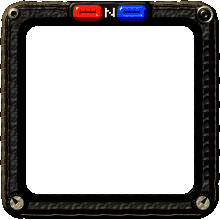
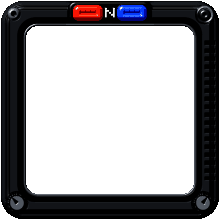
Minimap device frames: clean electronic I and J, K dropped
The grain, wear and rust of the last round read as a weathered object
rather than an electronic device. I and J are now charcoal moulded
plastic and black anodised metal with clean surfaces; the 1999
pre-render look comes from the light alone (shade_hard, crisp bevels,
bright glints on edges and screws, 48 colours). I gets a thin teal
line around the screen, J a gunmetal lip on its CRT well. The status
lamps stay. K is dropped, and the unused grit helpers go with it.

Changed region(s): [[0.0, 0.0, 1.0, 0.9818]]

diff --git a/port/docs/minimap/tools/designs.py b/port/docs/minimap/tools/designs.py
@@ -2,7 +2,7 @@
 # glass overlay, and where the map and markers go, all in native HUD pixels (640x480 HUD space).
 import numpy as np
 from mm_lib import (SS, Canvas, hexrgb, sd_circle, sd_rrect, sd_chamfer, blur, profile_round,
-                    profile_bevel, shade, glyph_mask, GLYPHS, sd_poly, value_noise, grit, shade_hard)
+                    profile_bevel, shade, glyph_mask, GLYPHS, sd_poly, shade_hard)
 
 
 class Design:
@@ -445,10 +445,9 @@ BUILDERS = [respect_ring, pager_handset, steel_plate, compass_dial]
 BUILDERS2 = [tube_frame, police_scanner, dash_gauge, gps_handheld]
 
 
-# Frames for the 3DS bottom screen's 9-slice (port/3ds/minimap.cpp, README's device frames) at its 110x110 slot,
-# pre-rendered like the HUD sprites. Edge details repeat every 4 px; make_frames.py rebuilds edges from one strip.
-# The HUD sprites' own materials: the pager's dark plastic and khaki metal, the respect meters' warm brown rim.
-PLASTIC = hexrgb('#1f2721'); KHAKI = hexrgb('#8e876b'); RIM = hexrgb('#5c4a32')
+# Frames for the 3DS bottom screen's 9-slice (port/3ds/minimap.cpp, README's device frames) at its 110x110 slot:
+# clean moulded plastic and anodised metal. Edge details repeat every 4 px; make_frames.py rebuilds edges from a strip.
+GUNMETAL = hexrgb('#5a5f68'); BLACK_METAL = hexrgb('#16171b')
 
 
 def _nine(d, cap, rib, tab_w, btab_w=0, inset=13):
@@ -462,15 +461,10 @@ def _housing(c, sd, rgb, spec, shin, bevel, height):
             height=profile_round(np.minimum(-sd, bevel), 2 * bevel, height) + np.where(-sd > bevel, height, 0))
 
 
-def _wobble(c, seed, amp=0.35):
-    """A few tenths of a pixel of irregularity to add to a signed distance."""
-    return amp * value_noise(c, 4.0, seed)
-
-
-def _screw(c, x, y, r, rgb, top, kind='slot', seed=0):
-    s = sd_circle(c, x, y, r) + _wobble(c, seed, 0.2)
-    c.paint(s < 0, rgb, spec=1.0, shin=40, height=top + profile_round(-s, r, r * 0.6))
-    dk = hexrgb('#0e0c08')
+def _screw(c, x, y, r, rgb, top, kind='slot'):
+    s = sd_circle(c, x, y, r)
+    c.paint(s < 0, rgb, spec=1.4, shin=60, height=top + profile_round(-s, r, r * 0.6))
+    dk = hexrgb('#060608')
     if kind == 'slot':
         c.paint((np.abs((c.x - x) - (c.y - y)) < 0.6) & (s < -0.5), dk, add=-1.0)
     elif kind == 'cross':
@@ -493,7 +487,7 @@ def _lamp_sprite(d, shape):
 def _lamp(c, shape, top):
     """The status lamp unlit: dark glass with a glint."""
     sd = shape(c)
-    c.paint(sd < 0, hexrgb('#1a1c18'), spec=1.3, shin=50, height=top + profile_round(-sd, 3.0, 1.4))
+    c.paint(sd < 0, hexrgb('#1a1c1e'), spec=1.4, shin=60, height=top + profile_round(-sd, 3.0, 1.4))
 
 
 def _finish(d, c, screen, map_style='colour'):
@@ -508,37 +502,38 @@ def _finish(d, c, screen, map_style='colour'):
 
 
 def tracker_handset():
-    """I: a handheld tracker in the pager's dark plastic: khaki metal screen bezel, grip ridges, a status window with
-    the status lamp and an N, the pager's orange button, a speaker grille below."""
+    """I: a handheld tracker in charcoal moulded plastic: black anodised bezel with a thin glowing line, side vents,
+    a black glass status window with the status lamp and an N, the pager's orange button, a speaker grille below."""
     d = Design(); d.name = 'I_tracker_handset'; d.title = 'I  Tracker handset'
     d.W = d.H = W = H = 110
     _nine(d, cap=18, rib=12, tab_w=40, btab_w=40)
     c = Canvas(W, H)
-    body = sd_rrect(c, 0.5, 0.5, W - 0.5, H - 0.5, 9) + _wobble(c, 11)
-    _housing(c, body, PLASTIC, 0.5, 18, 4.0, 5.0)
-    c.h_[np.abs(body + 2.3) < 0.5] -= 1.0
-    side = ((c.x < 9) | (c.x > W - 9)) & (c.y > 18) & (c.y < H - 18) & (body < -0.8)
-    c.paint(side & (((c.y - 18) % 4) < 1.8), hexrgb('#0c100d'), add=-1.4)
+    body = sd_rrect(c, 0.5, 0.5, W - 0.5, H - 0.5, 9)
+    _housing(c, body, hexrgb('#2e3238'), 0.6, 30, 3.5, 5.0)
+    c.h_[np.abs(body + 2.2) < 0.45] -= 0.9
+    side = ((c.x > 3) & (c.x < 7.5) | (c.x > W - 7.5) & (c.x < W - 3)) & (c.y > 18) & (c.y < H - 18)
+    c.paint(side & (((c.y - 18) % 4) < 1.6), hexrgb('#060708'), add=-1.8)
     win = sd_rrect(c, 38, 2, 72, 11, 2)
-    c.paint(win < 0, hexrgb('#0c0e0c'), spec=0.6, shin=30, height=5.0 - 2.0 * np.clip(-win / 1.0, 0, 1))
+    c.paint(win < 0, hexrgb('#08090b'), spec=1.2, shin=70, height=5.0 - 1.8 * np.clip(-win / 1.0, 0, 1))
     lamp = lambda cc: sd_rrect(cc, 40.5, 3.5, 49.5, 9.5, 2)
-    _lamp(c, lamp, 3.0)
-    c.paint(glyph_mask(c, GLYPHS['N'], 53, 4.5, 1.0), hexrgb('#d8d2a8'), spec=0.0, add=0.0)
+    _lamp(c, lamp, 3.4)
+    c.paint(glyph_mask(c, GLYPHS['N'], 53, 4.5, 1.0), hexrgb('#b4c8b0'), spec=0.0, add=0.0)
     for x in (63.5, 66.5, 69.5):
-        c.paint(sd_circle(c, x, 6.5, 0.9) < 0, hexrgb('#030403'), add=-1.0)
+        c.paint(sd_circle(c, x, 6.5, 0.9) < 0, hexrgb('#020203'), add=-1.0)
     for i in range(6):
         sl = sd_rrect(c, 40.5 + i * 5, 99.5, 43 + i * 5, 107, 1.0)
-        c.paint(sl < 0, hexrgb('#040504'), add=-2.6)
-    btn = sd_rrect(c, W - 12.5, 2, W - 2.5, 10, 2.5) + _wobble(c, 12, 0.25)
-    c.paint(btn < 0, hexrgb('#f0641a'), spec=0.8, shin=30, height=5.0 + profile_bevel(-btn, 1.5, 2.0))
-    for i, (x, y) in enumerate(((6.5, 6.5), (6.5, H - 6.5), (W - 6.5, H - 6.5))):
-        _screw(c, x, y, 3.2, KHAKI, 5.5, 'slot', 20 + i)
-    bez = sd_rrect(c, 9.5, 9.5, W - 9.5, H - 9.5, 6) + _wobble(c, 13, 0.25)
-    c.paint((bez < 0.7) & (bez >= 0), hexrgb('#060806'), add=-1.2)
+        c.paint(sl < 0, hexrgb('#040405'), add=-2.6)
+    btn = sd_rrect(c, W - 12.5, 2, W - 2.5, 10, 2.5)
+    c.paint(btn < 0, hexrgb('#e8601a'), spec=0.9, shin=40, height=5.0 + profile_bevel(-btn, 1.5, 2.0))
+    for x, y in ((6.5, 6.5), (6.5, H - 6.5), (W - 6.5, H - 6.5)):
+        _screw(c, x, y, 3.0, GUNMETAL, 5.5, 'cross')
+    bez = sd_rrect(c, 9.5, 9.5, W - 9.5, H - 9.5, 6)
+    c.paint((bez < 0.7) & (bez >= 0), hexrgb('#040405'), add=-1.2)
+    c.paint(bez < 0, BLACK_METAL, spec=1.3, shin=60, height=4.2 + profile_round(np.minimum(-bez, 3.5), 3.5, 1.6))
     screen = sd_rrect(c, 13, 13, W - 13, H - 13, 3)
-    c.paint(bez < 0, KHAKI, spec=0.8, shin=30, height=4.2 + profile_round(np.minimum(-bez, 3.5), 3.5, 1.4))
-    grit(c, (body < 0) & (bez >= 0.7), 101)
-    grit(c, bez < 0, 102, grain=0.06)
+    glow = (screen >= 0) & (screen < 0.9)
+    c.paint(glow, hexrgb('#1c4a44'), spec=0.2)
+    c.emit[glow] += np.array([0.07, 0.30, 0.26])
     c.alpha[body < 0] = 1
     c.alpha[screen < 0] = 0
     d.lamp_box = ('tab', 40, 3, 50, 10)
@@ -547,46 +542,45 @@ def tracker_handset():
 
 
 def police_scanner2():
-    """J: a police scanner in near-black plastic with a warm brown rim: red and blue light bar with an N between, a
-    deep CRT well, vent slots on the right, two knurled knobs below, the status lamp in a khaki bezel top right."""
+    """J: a police scanner in black anodised metal: red and blue light bar with an N between, a deep CRT well with a
+    gunmetal lip, vent slots on the right, two knurled knobs below, the status lamp in a gunmetal bezel top right."""
     d = Design(); d.name = 'J_police_scanner'; d.title = 'J  Police scanner'
     d.W = d.H = W = H = 110
     _nine(d, cap=20, rib=12, tab_w=44)
     c = Canvas(W, H)
-    body = sd_rrect(c, 0.5, 0.5, W - 0.5, H - 0.5, 11) + _wobble(c, 21)
-    _housing(c, body, hexrgb('#1e1d1c'), 0.5, 18, 4.5, 6.0)
-    c.paint((body < 0) & (body > -2.2), RIM, spec=0.7, shin=24)
-    c.h_[np.abs(body + 2.5) < 0.5] -= 1.0
-    bar = sd_rrect(c, 34, 0.5, 76, 12.5, 4) + _wobble(c, 22, 0.25)
-    c.paint(bar < 0, hexrgb('#101010'), spec=0.5, shin=20, height=6.0 + profile_round(np.minimum(-bar, 1.5), 3.0, 1.5))
+    body = sd_rrect(c, 0.5, 0.5, W - 0.5, H - 0.5, 11)
+    _housing(c, body, hexrgb('#202226'), 0.9, 45, 4.5, 6.0)
+    c.h_[np.abs(body + 2.5) < 0.45] -= 0.9
+    bar = sd_rrect(c, 34, 0.5, 76, 12.5, 4)
+    c.paint(bar < 0, hexrgb('#0c0c0e'), spec=0.8, shin=40, height=6.0 + profile_round(np.minimum(-bar, 1.5), 3.0, 1.5))
     for x0, x1, col, glow in ((36.5, 51.5, '#ff1a08', (0.35, 0.02, 0.0)), (58.5, 73.5, '#1438ff', (0.0, 0.05, 0.40))):
         lens = sd_rrect(c, x0, 2.5, x1, 10.5, 3)
         c.paint(lens < 0, hexrgb(col), spec=1.4, shin=50, height=7.5 + profile_round(-lens, 4.0, 2.2))
         c.emit[lens < 0] += np.array(glow)
         c.alb[(lens < -0.8) & (np.abs(((c.x - x0) / 2.5) % 1 - 0.5) < 0.16)] *= 0.45
-    c.paint(glyph_mask(c, GLYPHS['N'], 52.5, 4.0, 1.0), hexrgb('#f0e8d8'), add=0.3)
+    c.paint(glyph_mask(c, GLYPHS['N'], 52.5, 4.0, 1.0), hexrgb('#e8eae8'), add=0.3)
     vent = (c.x > W - 7.5) & (c.x < W - 2.5) & (c.y > 20) & (c.y < H - 20) & ((((c.y - 20) % 4) - 1.5) ** 2 < 1.0)
-    c.paint(vent, hexrgb('#040404'), add=-2.0)
-    _screw(c, 7.0, 7.0, 3.2, KHAKI, 6.0, 'hex', 23)
+    c.paint(vent, hexrgb('#030304'), add=-2.0)
+    _screw(c, 7.0, 7.0, 3.2, GUNMETAL, 6.0, 'hex')
     ring = sd_circle(c, W - 7.5, 7.5, 4.6)
-    c.paint(ring < 0, KHAKI, spec=1.0, shin=36, height=6.0 + profile_round(-ring, 1.6, 1.0))
+    c.paint(ring < 0, GUNMETAL, spec=1.4, shin=60, height=6.0 + profile_round(-ring, 1.6, 1.0))
     lamp = lambda cc: sd_circle(cc, W - 7.5, 7.5, 3.0)
     _lamp(c, lamp, 6.4)
-    for i, (x, a) in enumerate(((8.5, -2.3), (W - 8.5, -0.9))):
+    for x, a in ((8.5, -2.3), (W - 8.5, -0.9)):
         y = H - 8.5
-        k = sd_circle(c, x, y, 5.6) + _wobble(c, 24 + i, 0.2)
+        k = sd_circle(c, x, y, 5.6)
         ang = np.arctan2(c.y - y, c.x - x)
-        c.paint(k < 0, hexrgb('#161616'), spec=1.2, shin=40, height=6.0 + profile_round(np.minimum(-k, 1.8), 3.6, 2.4)
+        c.paint(k < 0, hexrgb('#141416'), spec=1.2, shin=50, height=6.0 + profile_round(np.minimum(-k, 1.8), 3.6, 2.4)
                 + np.where(-k > 1.8, 2.4, 0) + 0.5 * np.cos(ang * 12) * (k > -1.6))
-        c.paint(sd_circle(c, x, y, 3.4) < 0, KHAKI, spec=1.0, shin=36)
+        c.paint(sd_circle(c, x, y, 3.4) < 0, GUNMETAL, spec=1.4, shin=60)
         p = sd_poly(c, [(x + 0.7 * np.cos(a + 1.57), y + 0.7 * np.sin(a + 1.57)), (x + 3.2 * np.cos(a), y + 3.2 * np.sin(a)),
                         (x - 0.7 * np.cos(a + 1.57), y - 0.7 * np.sin(a + 1.57))])
-        c.paint(p < 0.2, hexrgb('#141410'), spec=0.4, add=-0.6)
-    well = sd_rrect(c, 9, 9, W - 9, H - 9, 9) + _wobble(c, 26, 0.25)
-    c.paint(well < 0, hexrgb('#0c0d0e'), spec=0.4, shin=20, height=6.0 - 4.5 * np.clip(-well / 3.5, 0, 1))
+        c.paint(p < 0.2, hexrgb('#0c0c0e'), spec=0.4, add=-0.6)
+    well = sd_rrect(c, 9, 9, W - 9, H - 9, 9)
+    c.paint(well < 0, hexrgb('#08090a'), spec=0.5, shin=30, height=6.0 - 4.5 * np.clip(-well / 3.5, 0, 1))
     screen = sd_rrect(c, 13, 13, W - 13, H - 13, 6)
-    grit(c, (body < 0) & (well >= 0) & (bar >= 0) & (ring >= 0), 201)
-    grit(c, well < 0, 202, bump=0.06)
+    lip = (screen >= 0) & (screen < 1.4)
+    c.paint(lip, GUNMETAL, spec=1.3, shin=60, height=1.5 + profile_round(screen, 1.4, 0.7))
     c.alpha[body < 0] = 1
     c.alpha[screen < 0] = 0
     d.lamp_box = ('tr', W - 11, 4, W - 4, 11)
@@ -594,36 +588,4 @@ def police_scanner2():
     return _finish(d, c, screen)
 
 
-def field_scope():
-    """K: an instrument case in the respect meters' warm brown, a khaki bezel, a khaki N plate, the status lamp in a
-    recess below, cross-head screws."""
-    d = Design(); d.name = 'K_field_scope'; d.title = 'K  Field scope'
-    d.W = d.H = W = H = 110
-    _nine(d, cap=18, rib=12, tab_w=30, btab_w=30)
-    c = Canvas(W, H)
-    body = sd_rrect(c, 0.5, 0.5, W - 0.5, H - 0.5, 8) + _wobble(c, 31)
-    _housing(c, body, hexrgb('#4a3c28'), 0.6, 22, 3.5, 5.0)
-    c.h_[np.abs(body + 2.0) < 0.5] -= 1.0
-    plate = sd_rrect(c, 44, 0.5, 66, 11.5, 2.5) + _wobble(c, 32, 0.25)
-    c.paint(plate < 0, KHAKI, spec=0.9, shin=30, height=5.0 + profile_bevel(-plate, 1.6, 1.8))
-    c.paint(glyph_mask(c, GLYPHS['N'], 52.5, 3.5, 1.0) * (plate < -0.5), hexrgb('#141208'), add=-1.2)
-    rec = sd_rrect(c, 45, 98.5, 65, 109, 2.5)
-    c.paint(rec < 0, hexrgb('#0e0c08'), height=5.0 - 1.8 * np.clip(-rec, 0, 1))
-    lamp = lambda cc: sd_rrect(cc, 49, 100.5, 61, 107, 2.2)
-    _lamp(c, lamp, 3.4)
-    for i, (x, y) in enumerate(((6.5, 6.5), (W - 6.5, 6.5), (6.5, H - 6.5), (W - 6.5, H - 6.5))):
-        _screw(c, x, y, 3.0, KHAKI, 5.0, 'cross', 34 + i)
-    bez = sd_rrect(c, 9, 9, W - 9, H - 9, 5) + _wobble(c, 38, 0.25)
-    c.paint((bez < 0.7) & (bez >= 0), hexrgb('#0e0a06'), add=-1.0)
-    c.paint(bez < 0, hexrgb('#7c7458'), spec=0.8, shin=26, height=4.0 + profile_round(np.minimum(-bez, 4.0), 4.0, 2.4))
-    screen = sd_rrect(c, 13, 13, W - 13, H - 13, 3)
-    grit(c, (body < 0) & (bez >= 0.7) & (plate >= 0), 301)
-    grit(c, (bez < 0) | (plate < 0), 302, grain=0.06)
-    c.alpha[body < 0] = 1
-    c.alpha[screen < 0] = 0
-    d.lamp_box = ('btab', 49, 100, 61, 108)
-    _lamp_sprite(d, lamp)
-    return _finish(d, c, screen)
-
-
-BUILDERS3 = [tracker_handset, police_scanner2, field_scope]
+BUILDERS3 = [tracker_handset, police_scanner2]

diff --git a/port/docs/minimap/tools/mm_lib.py b/port/docs/minimap/tools/mm_lib.py
@@ -173,63 +173,8 @@ def font(bold, size):
     return ImageFont.load_default()
 
 
-# Grit, to match the HUD sprites: a 3D render crushed to few colours has per-pixel grain and sharp glints.
-def value_noise(c, cell, seed):
-    """Smooth noise in -1..1 with features about `cell` native px wide."""
-    rng = np.random.default_rng(seed)
-    gh, gw = int(c.h / cell) + 3, int(c.w / cell) + 3
-    g = rng.random((gh, gw)).astype(np.float32) * 2 - 1
-    fy, fx = c.y / cell, c.x / cell
-    y0, x0 = fy.astype(int), fx.astype(int)
-    ty, tx = fy - y0, fx - x0
-    ty, tx = ty * ty * (3 - 2 * ty), tx * tx * (3 - 2 * tx)
-    top = g[y0, x0] * (1 - tx) + g[y0, x0 + 1] * tx
-    bot = g[y0 + 1, x0] * (1 - tx) + g[y0 + 1, x0 + 1] * tx
-    return top * (1 - ty) + bot * ty
-
-
-def pixel_noise(c, seed):
-    """One random value in -1..1 per native pixel."""
-    g = np.random.default_rng(seed).random((c.h, c.w)).astype(np.float32) * 2 - 1
-    return g[np.minimum(c.y.astype(int), c.h - 1), np.minimum(c.x.astype(int), c.w - 1)]
-
-
-def scratch_mask(c, mask, n, seed, length=(2.0, 6.0), width=0.4):
-    """Short straight scratches starting inside `mask`, mostly along the diagonals."""
-    rng = np.random.default_rng(seed)
-    ys, xs = np.nonzero(mask[::SS, ::SS])
-    out = np.zeros(c.x.shape, bool)
-    for _ in range(n if len(xs) else 0):
-        i = rng.integers(len(xs))
-        ax, ay = xs[i] + rng.random(), ys[i] + rng.random()
-        a = rng.choice([0.75, 2.35, 0.2, 1.4]) + rng.normal(0, 0.25)
-        ln = rng.uniform(*length)
-        ex, ey = np.cos(a) * ln, np.sin(a) * ln
-        px, py = c.x - ax, c.y - ay
-        t = np.clip((px * ex + py * ey) / (ln * ln), 0, 1)
-        out |= np.hypot(px - t * ex, py - t * ey) < width
-    return out & mask
-
-
-def grit(c, mask, seed, grain=0.09, bump=0.14, wear=0.0, wear_rgb=(200, 150, 96), scratches=0, mottle=0.08):
-    """Grain, mottling and a fine bump (glints) on the painted region `mask`, optionally worn edges and scratches."""
-    m = mask > 0
-    convex = np.clip((c.h_ - blur(c.h_, int(0.5 * SS))) * 2.5, 0, 1)
-    k = 1 + grain * pixel_noise(c, seed) + mottle * value_noise(c, 3.0, seed + 1)
-    c.alb[m] *= np.clip(k, 0.3, 1.8)[m][:, None]
-    c.h_ += np.where(m, bump * (0.6 * value_noise(c, 1.2, seed + 2) + 0.4 * pixel_noise(c, seed + 3)), 0)
-    worn = m & (convex > 0.5) & (value_noise(c, 1.5, seed + 4) > 1 - 2 * wear) if wear else np.zeros_like(m)
-    c.alb[worn] = c.alb[worn] * 0.4 + np.array(wear_rgb, np.float32) / 255 * 0.6
-    c.spec[worn] = np.maximum(c.spec[worn], 1.1); c.shin[worn] = 45
-    if scratches:
-        s = scratch_mask(c, m, scratches, seed + 5, length=(1.5, 4.0), width=0.35)
-        light = s & (pixel_noise(c, seed + 6) > 0.2)
-        c.alb[light] = np.array(wear_rgb, np.float32) / 255 * 0.8
-        c.spec[light] = 1.2
-        c.alb[s & ~light] *= 0.45
-
-
+# The 1999 pre-render look comes from the light: hard key light, deep occlusion, crisp glints, few colours.
 def shade_hard(c, ambient=0.06, diffuse=1.3, ao_r=1.8, ao_k=0.9, light_rgb=(1.0, 0.96, 0.86), contrast=1.3):
-    """shade() with a harder key light, deep crevices and a contrast curve, for the gritty frames."""
+    """shade() with a harder key light, deep crevices and a contrast curve."""
     rgb, ao = shade(c, ambient, diffuse, ao_r, ao_k, light_rgb)
     return np.clip((rgb - 0.3) * contrast + 0.3, 0, 1)

diff --git a/port/docs/minimap/README.md b/port/docs/minimap/README.md
@@ -170,39 +170,31 @@ stations come from zone names, an educated guess.
 
 ## Device frames for the 3DS bottom screen
 
-Three candidates to replace E on the 3DS bottom screen, where the minimap sits under the respect meters, the
-status row and the pager, at 1:1 in a 110x110 slot. Each reads as a gadget that shows a map, in the HUD sprites'
-own materials (the pager's dark plastic and khaki metal, the respect meters' warm brown rim, `#463624` to
-`#978f75`), with small saturated accents.
+Two candidates to replace E on the 3DS bottom screen, where the minimap sits under the respect meters, the
+status row and the pager, at 1:1 in a 110x110 slot: dark, industrial electronic devices of GTA2's 1999 city,
+in clean charcoal moulded plastic and black anodised metal, with small saturated accents.
 
-![I, J and K: the frame x3, then 9-sliced at 110x110, 316x110 (the wide row) and 40x40 (a pause map button), x2](assets/frames/device_frames.png)
+![I and J: the frame x3, then 9-sliced at 110x110, 316x110 (the wide row) and 40x40 (a pause map button), x2](assets/frames/device_frames.png)
 
 | | Frame | Idea | Status lamp |
 |-|-------|------|-------------|
-| I | Tracker handset | The pager's dark plastic, a khaki metal bezel, grip ridges on the sides, the pager's orange button, a speaker grille below | In the status window on the top tab, beside the N |
-| J | Police scanner | Near-black plastic with a warm brown rim, a red and blue light bar with the N, a deep CRT well, vent slots on the right, two knurled knobs | Top right corner, in a khaki bezel |
-| K | Field scope | A case in the respect meters' warm brown, a khaki bezel, a khaki N plate, cross-head screws | In a recess on the bottom tab |
+| I | Tracker handset | Charcoal plastic, a black anodised bezel with a thin teal glowing line, side vents, a black glass status window, the pager's orange button, a speaker grille below | In the status window, beside the N |
+| J | Police scanner | Black anodised metal, a red and blue light bar with the N, a deep CRT well with a gunmetal lip, vent slots on the right, two knurled knobs | Top right corner, in a gunmetal bezel |
 
-A first, clean version of the three (commit fcf965af) looked too precise next to the HUD sprites. Those are
-3D renders crushed to an 8-bit palette: strong local contrast (near-white glints beside near-black shading),
-per-pixel grain, saturated colours, chunky shapes a little off true. A try with rust, worn edges and scratches
-went too far (a submarine's scanner rather than GTA2's HUD): `grit` can still wear and scratch, but the frames
-keep the HUD's clean pre-rendered materials. The grit pass in `mm_lib.py`:
-
-| Step | What it does |
-|------|--------------|
-| `shade_hard` | Low ambient, strong key light, deep ambient occlusion, a contrast curve |
-| `grit` | Grain per native pixel and light mottling in the albedo, a fine bump so the specular breaks into glints |
-| `_wobble` | A few tenths of a pixel of noise on the outlines |
-| Colours | 48 per frame rather than 128, no dithering, so gradients step |
+The HUD sprites are 3D renders crushed to an 8-bit palette, and the frames get that look from the light, not
+from texture: `shade_hard` in `mm_lib.py` (low ambient, a hard key light from the top left, deep ambient
+occlusion, a contrast curve), crisp bevels, high specular on edges and screws, and 48 colours per frame with no
+dithering, so gradients step. Earlier rounds, in the history: clean but soft (fcf965af, with K, a field scope);
+per-pixel grain, wear and rust (3a7399d4), which read as a weathered object rather than an electronic device.
 
 The status lamp is meant to show game state later: the colour of the gang whose territory the player is in, or
 green and red for whether that gang likes the player. The frame has it dark; `lamp_1x.png` is the lit lamp in
-white glass, drawn over it with the state's colour as the vertex colour.
+white glass, drawn over it with the state's colour as the vertex colour (a gang's colour scaled to full
+brightness, since the game's is too dark for a lamp).
 
 They are drawn for the game's 9-slice (`DrawFrame` in `port/3ds/minimap.cpp`) rather than as fixed images:
 square corners `cap` px, each edge one strip of `rib` px from `rib_x` repeated, a centred tab on the top edge
-(and on the bottom one for I and K), the map `inset` px inside, the same 13 px as E, so the map keeps its 84 px
+(and on the bottom one for I), the map `inset` px inside, the same 13 px as E, so the map keeps its 84 px
 (21 blocks). Edge details repeat every 4 px and the assets' edges are rebuilt from their strips, so the PNG is
 what the game draws at 110x110. `nine.json` in each frame's folder holds the numbers, and the lamp's place
 relative to its anchor piece:
@@ -212,22 +204,21 @@ relative to its anchor piece:
 | E | 104x92 | 14 | 14, 7 | 44, 15 | | 13 | |
 | I | 110x110 | 18 | 18, 12 | 35, 40 | 35, 40 | 13 | top tab, 40, 3, 10x7 |
 | J | 110x110 | 20 | 20, 12 | 33, 44 | | 13 | top right corner, 99, 4, 7x7 |
-| K | 110x110 | 18 | 18, 12 | 40, 30 | 40, 30 | 13 | bottom tab, 49, 100, 12x8 |
 
 Switching the game to one of them:
 
 - `port/3ds/CMakeLists.txt`: `Frame=` names that frame's `frame_1x.png`, and a `Lamp=` its `lamp_1x.png`.
-- `minimap.cpp`: `kCap`, `kRibX`, `kRib`, `kTabX`, `kTabW` and `kTube` (the inset) from the table. I and K need a
+- `minimap.cpp`: `kCap`, `kRibX`, `kRib`, `kTabX`, `kTabW` and `kTube` (the inset) from the table. I needs a
   bottom tab in `DrawFrame`: the bottom edge drawn like the top one, around a tab from `h - cap`.
 - The lamp: in the atlas under the arrow (the arrow is 13 high, so from row 16), one more quad in `DrawFrame`
   for the minimap (not the buttons) placed from its anchor, with the state's colour; that colour joins the
   signature in `Update`.
-- The atlas stays 128x128: a 110 px frame, a clear column and the 11 px arrow or 12 px lamp make at most 123.
-  The wide row (`GTA2_3DS_MINIMAP=wide`, 316x110) takes 61 to 65 quads with a 12 px strip, under
+- The atlas stays 128x128: a 110 px frame, a clear column and the 11 px arrow or 10 px lamp make at most 121.
+  The wide row (`GTA2_3DS_MINIMAP=wide`, 316x110) takes 61 or 62 quads with a 12 px strip, under
   `DrawFrame`'s 160.
 - The pause map's zoom buttons are 40x40 squares of the frame without tabs: corners take 36 px of them (40 for
-  J, whose corners meet), leaving E's 14 px hole for the glyph. They show the corners' details: I's orange button,
-  J's lamp and knobs, K's screws. Smaller corners for the buttons would need a separate button piece in the atlas.
+  J, whose corners meet), leaving E's 14 px hole for the glyph. They show the corners' details: I's orange button
+  and screws, J's lamp and knobs. Smaller corners for the buttons would need a separate button piece in the atlas.
 - `port/docs/3ds.md` (Renderer) names the tube frame and its tube for the buttons.
 
 `tools/make_frames.py` renders them (and this preview) without game data. The candidates were compared in
@@ -265,7 +256,7 @@ tools/run_all.sh <game data dir> <game dir copy> <out dir>  # every image above,
 |--------|------|
 | `sty.py`, `scr.py`, `gmpzones.py` | Readers for `.sty` sprites and palettes, `.scr` commands and strings, `.gmp` zones |
 | `render_map.py` | Top-down render from lid tiles, plus height and ground type grids |
-| `mm_lib.py`, `designs.py` | Frame renderer, the eight frames and the device frames I to K |
+| `mm_lib.py`, `designs.py` | Frame renderer, the eight frames and the device frames I and J |
 | `make_frames.py` | The device frames' assets, `nine.json` and preview, without game data |
 | `compare_frames.py` | Side by side bottom screens of Azahar captures, one column per frame |
 | `make_all.py` | Frames, glass, masks, markers, composites, overviews |
